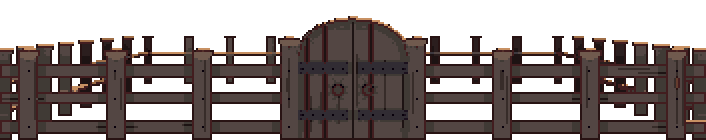
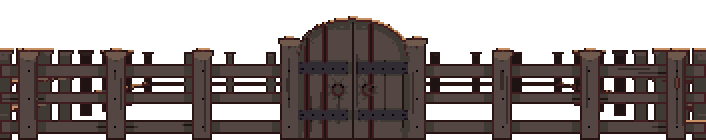
Town: stars hide under cloud, come out one by one at dusk, twinkle in three crisp steps with flares; training yard's far fence set onto the ground plane
Claude-Session: https://claude.ai/code/session_01FzDataYedfiK9tzFLcKdoU

diff --git a/docs/work/town-art/MEMO.md b/docs/work/town-art/MEMO.md
@@ -62,3 +62,7 @@
   → 적용: 가로등 빛 중심을 새 가로등 유리 한가운데(스프라이트 x 86, y 90)로.
 - 2026-11-08: "너무 지금 원경만 있고 (원경도 반복임. 공기 산란도 없음) 근경과 가까운 배경은 없는데 이것도 어캐 못하나"
   → 적용(1단계, wip/town-integrate): 원경 산을 세 겹(먼 산·중간 산·가까운 산)으로, 각 겹은 시차 이동 거리보다 넓게 만들어 반복 없음. 먼 겹일수록 밝은 램프(먼 산 = 파랑 램프 밝은 두 색, 중간 = 보라 한 단계 밝게), 산 밑동은 골짜기 안개(한 단계 밝게). tools/make_bg_ranges.py. 다음: 중경 나무 줄·언덕, 근경.
+- 2026-11-08: "해줘. 그리고 밤 되면 서서히 나타나고. 반짝반짝 선명해지기도하고" (흐린 날 낮에 별이 보이는 것)
+  → 적용: 별 세기를 날씨 덮개 전 하늘빛으로 계산, 비·눈이면 별 없음. 해 질 녘에 밝은 별부터 하나씩 나옴. 밝기 3단(정해진 색 3개)으로 반짝이고, 밝은 별은 3~7초마다 0.4초 작은 십자로 번쩍. 별 색은 밤 어둠(곱하기)에서 빠져 선명하게(shaders/amb_light.gdshader).
+- 2026-11-08: "그리고 훈련장 울타리 뒷부분이 떠있음. 해결좀"
+  → 적용: 뒤 울타리를 땅 평면(42px) 안으로: yard.js 깊이 -470 → -335(발이 40px 위). 낮·아침·저녁·밤·노멀맵 다시 렌더, 땅 빛 다시 굽기.
